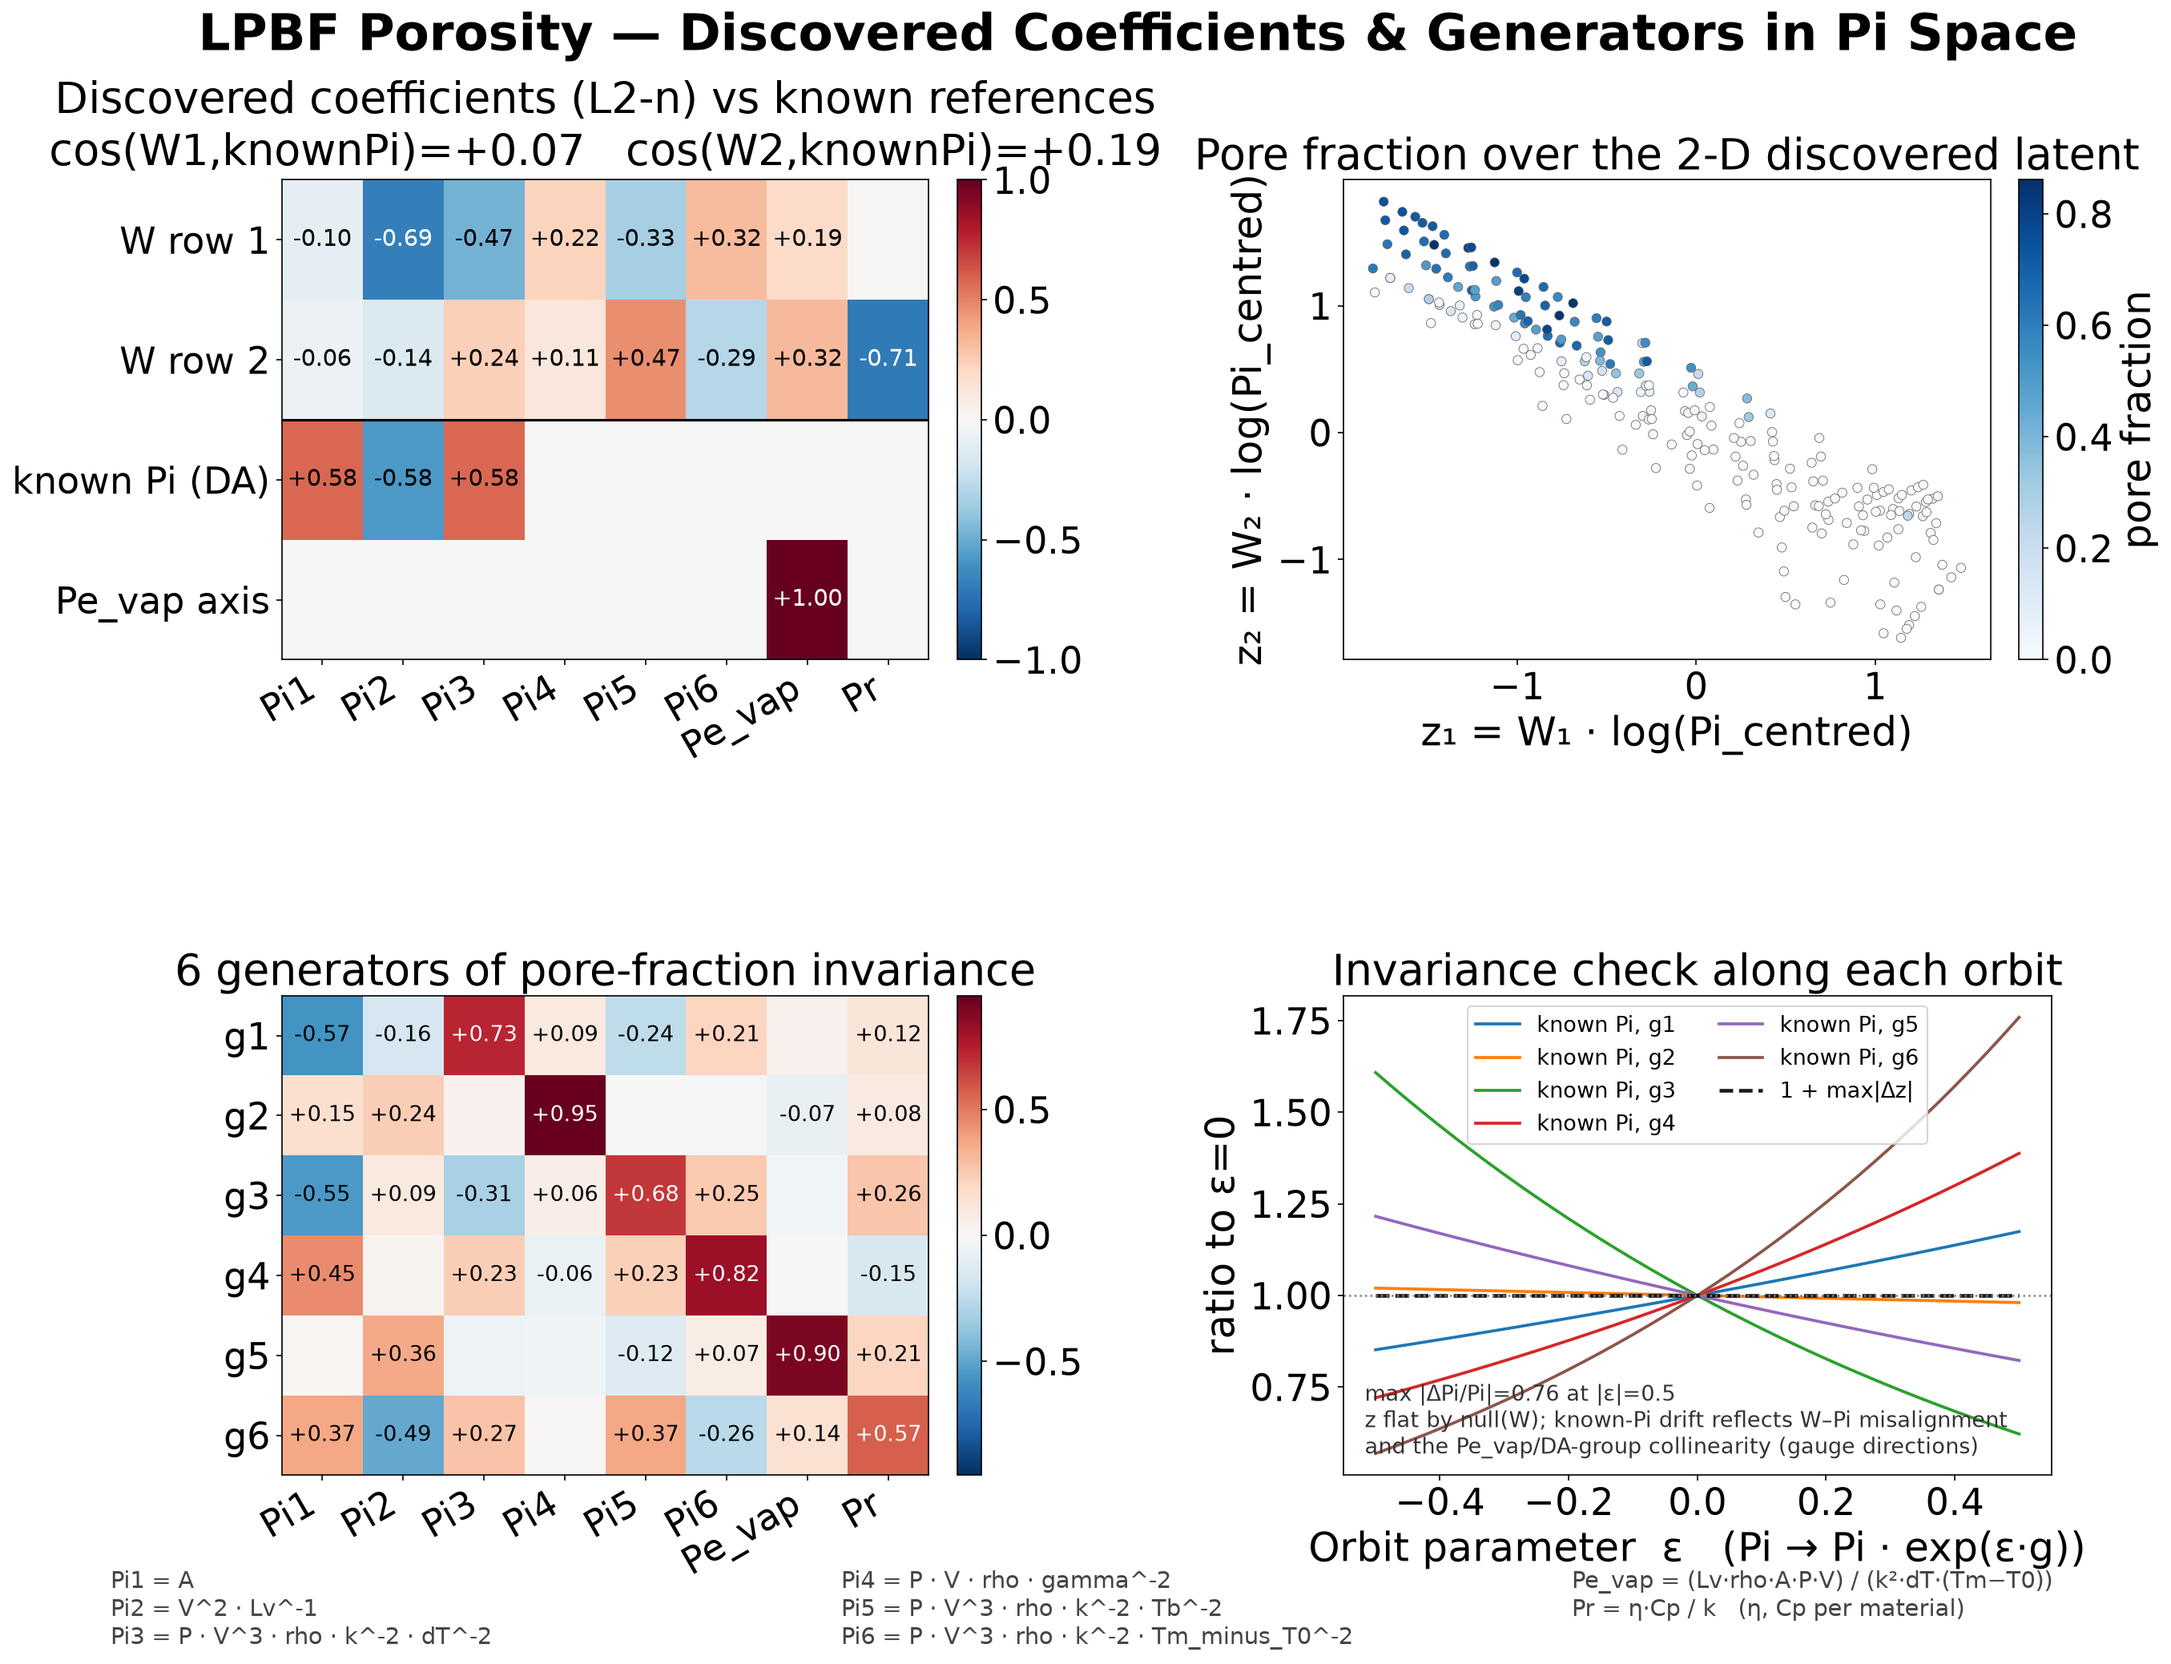
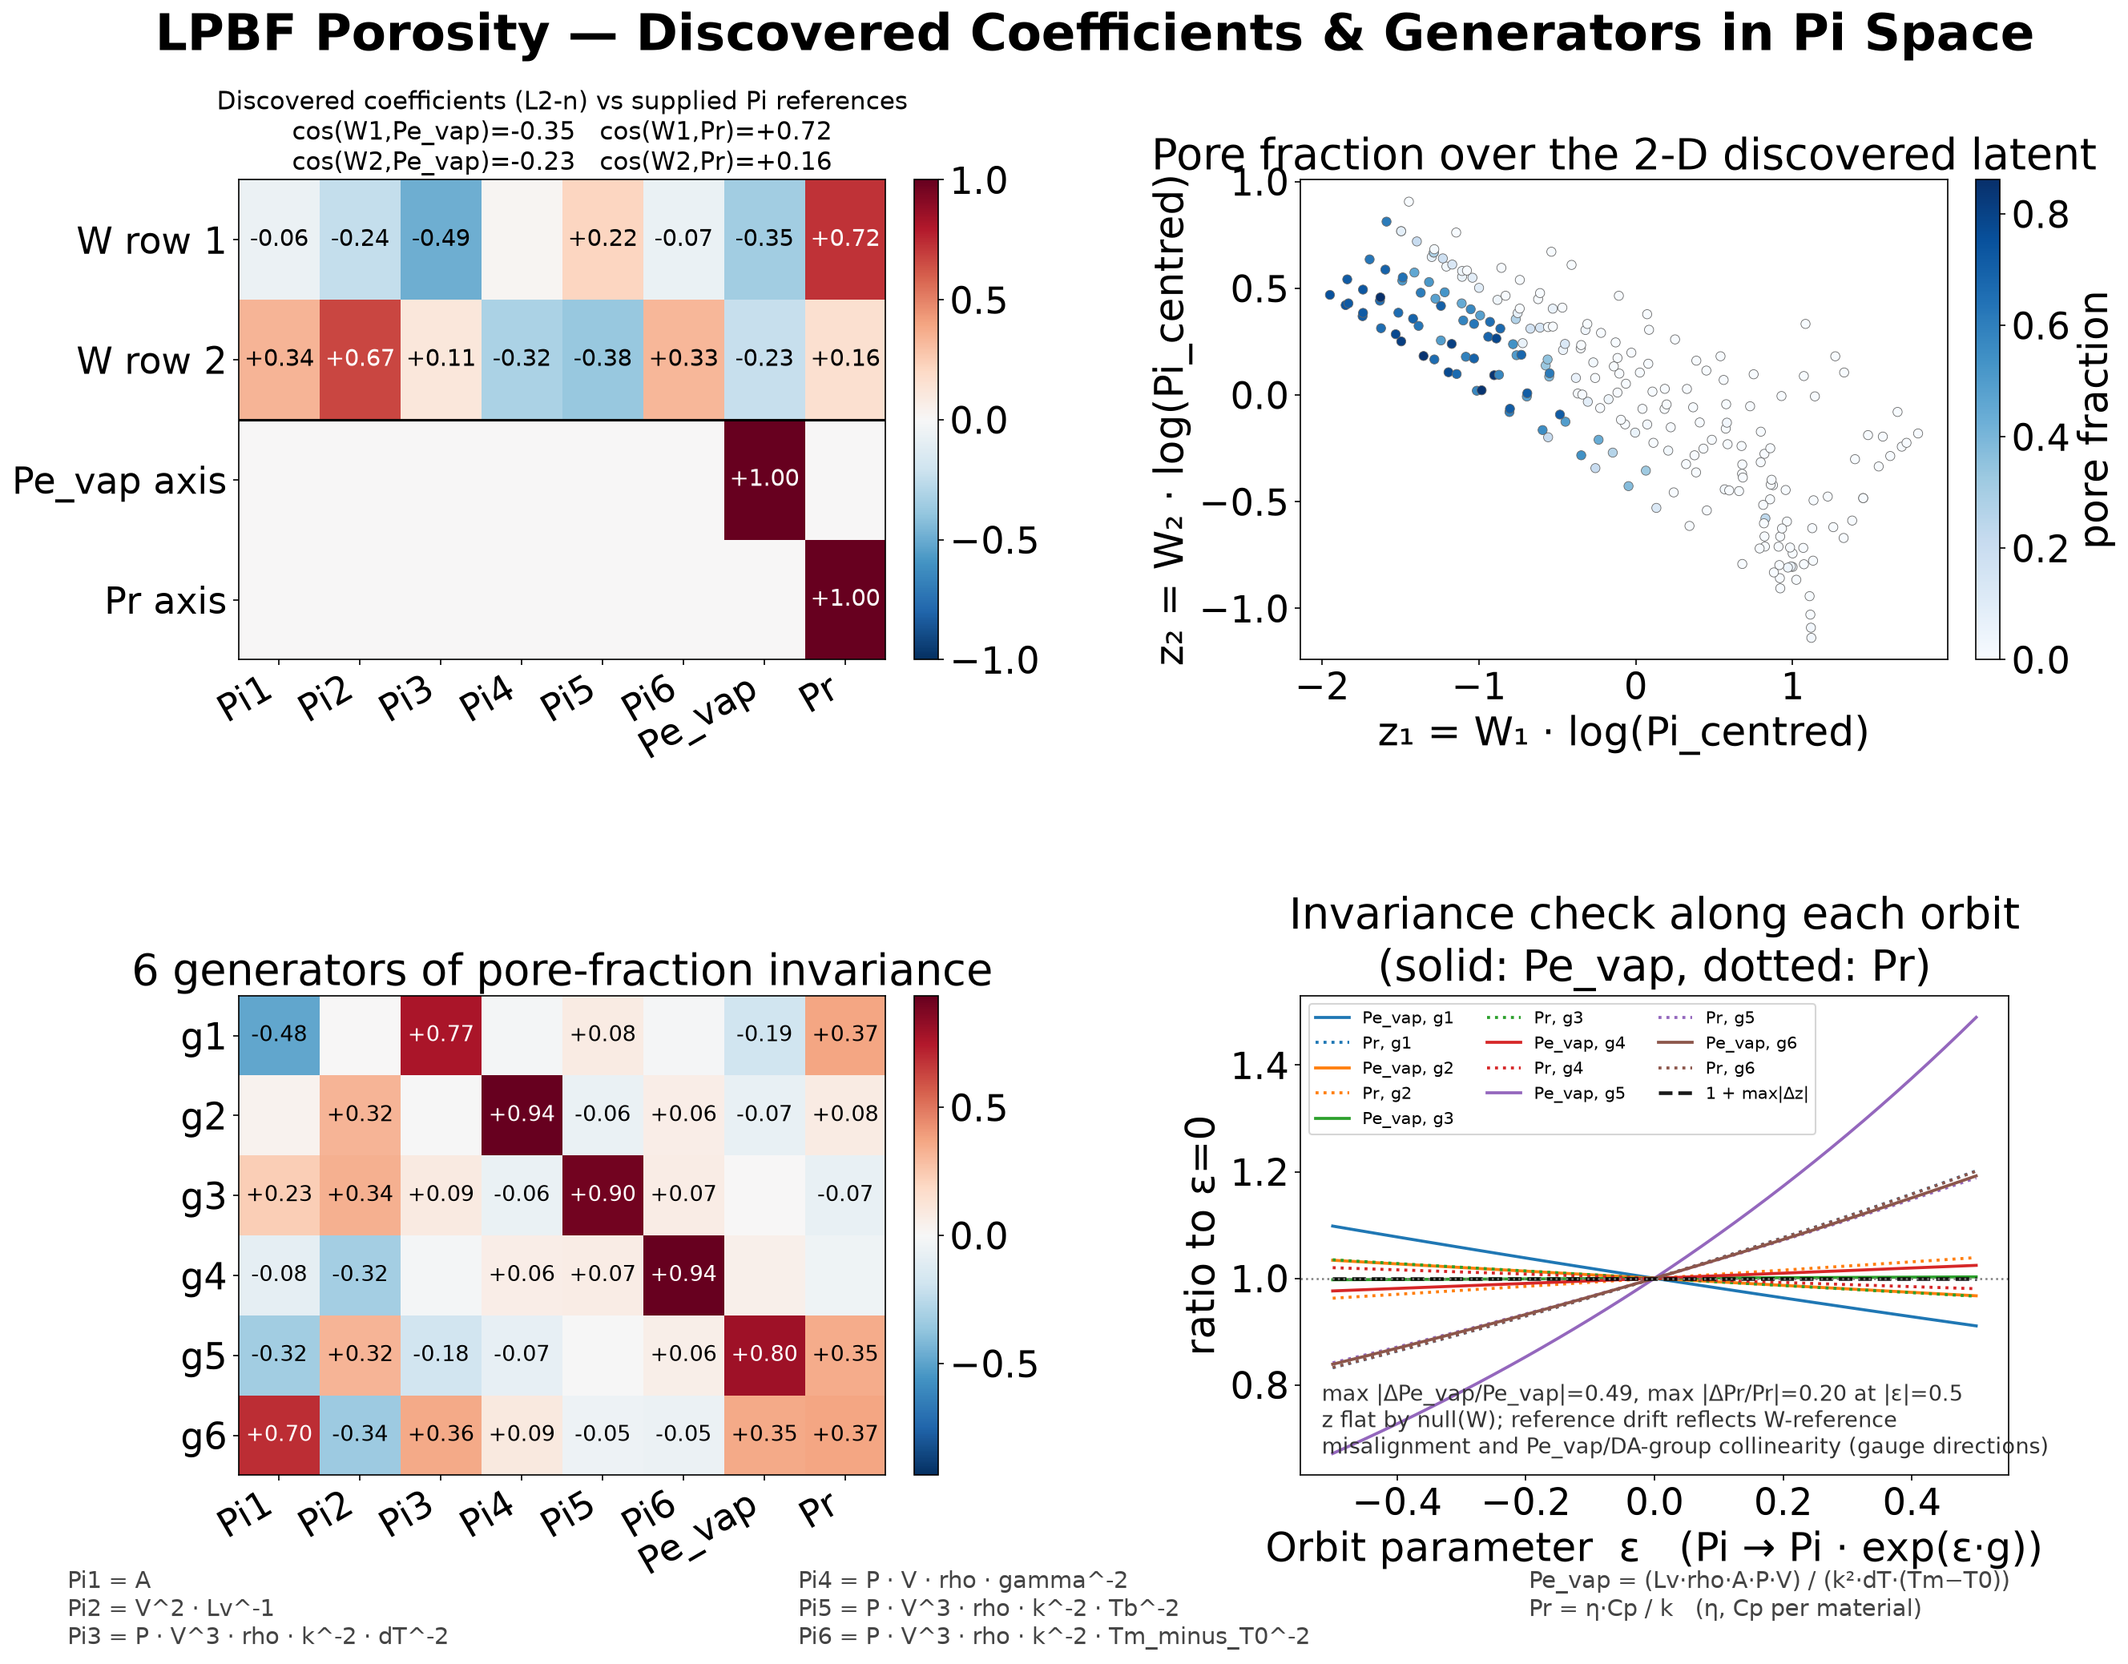
LPBF example: regenerate outputs; un-gate generators figure
Rerun with the supplied Pe_vap/Pr references (scaling winner, gap 1.2x).
The Pi-space coefficients/generators figure is no longer skipped for a
translational winner: in pi-only mode the orbit panel now uses additive
orbits Pi -> Pi + eps*g (and the matching identity latent transform)
when translational wins, since the scaling/translational losses are
near-tied and the winner can flip between environments. Panel A cosine
readout moved to one line per W row to stop title overlap.

Claude-Session: https://claude.ai/code/session_01HHPyXpQKJ8uLrJtZ5BgRFm

diff --git a/projects/20260912_Stage1_Prokash/Examples/lpbf_porosity_symmetry/discover_symmetry.py b/projects/20260912_Stage1_Prokash/Examples/lpbf_porosity_symmetry/discover_symmetry.py
@@ -1026,19 +1026,23 @@ def plot_pi_candidates(X, y, results, output_dir):
 def plot_discovered_law_and_generators(y, results, output_dir):
     """Visualize the discovered coefficients and generators in Pi space.
 
-    Four panels (requires pi-only mode and a scaling winner):
+    Four panels (requires pi-only mode and a scaling or translational
+    winner):
       A. Coefficient heatmap: the k* winning encoder rows (L2-normalised)
          stacked above the two supplied references — the pure Pe_vap axis
          and the pure Pr axis.
       B. Latent collapse: for k* = 2 a scatter of (z1, z2) colored by pore
          fraction; for k* = 1 a scatter of pore fraction vs z1.
       C. Heatmap of the null-space generators (rows) × Pi features (cols).
-      D. Orbit invariance: Pi(ε) = Pi0 · exp(ε·g).  Pe_vap and Pr are
-         literal feature axes, so they move by exp(ε·g[-2]) and
-         exp(ε·g[-1]) exactly; the latent z stays flat by null(W).
+      D. Orbit invariance.  Scaling winner: Pi(ε) = Pi0 · exp(ε·g), so the
+         supplied references move by exp(ε·g[-2]) / exp(ε·g[-1]) exactly.
+         Translational winner: Pi(ε) = Pi0 + ε·g (additive in centred Pi
+         space, Pi0 = 1), so they move by 1 + ε·g[-2] / 1 + ε·g[-1].
+         Either way the latent z stays flat by null(W).
     """
     os.makedirs(output_dir, exist_ok=True)
     winner_encoder = results["winner_encoder"]
+    winner_type    = results["winner_type"]
     generators     = results["generators"]
     W              = winner_encoder.weight_matrix          # (k*, n_pi)
     pi_centred     = results["pi_centred"]
@@ -1055,23 +1059,33 @@ def plot_discovered_law_and_generators(y, results, output_dir):
 
     W_dirs = W / (np.linalg.norm(W, axis=1, keepdims=True) + 1e-12)
 
-    # Latent coordinates (encoder-equivalent, incl. the 0.1 clamp)
-    log_pi = np.log(np.clip(np.abs(pi_centred), 0.1, None))
-    Z = log_pi @ W.T                                       # (n, k*)
+    # Latent coordinates, matching the winning encoder's transform:
+    # scaling sees clamped log(Pi); translational sees Pi directly.
+    if winner_type == "scaling":
+        Z = np.log(np.clip(np.abs(pi_centred), 0.1, None)) @ W.T   # (n, k*)
+    else:
+        Z = pi_centred @ W.T                                       # (n, k*)
 
-    # Orbits from the geometric centre (centred Pi ⇒ start point = 1s)
+    # Orbits from the geometric centre (centred Pi ⇒ start point = 1s).
+    # Pe_vap and Pr are the last two feature axes, so their change along
+    # the orbit is exact for both winner types.
     eps_grid = np.linspace(-0.5, 0.5, 41)
     orbit_pe_vap = np.zeros((n_gen, eps_grid.size))
     orbit_pr     = np.zeros((n_gen, eps_grid.size))
     orbit_dz_max = np.zeros((n_gen, eps_grid.size))
     for k, g in enumerate(generators):
-        # Pe_vap and Pr are the last two feature axes, so their change
-        # along the orbit is exactly exp(ε · g_component).
-        orbit_pe_vap[k] = np.exp(eps_grid * float(g[n_pi - 2]))
-        orbit_pr[k]     = np.exp(eps_grid * float(g[n_pi - 1]))
-        Pi_orbit = np.exp(np.outer(eps_grid, g))
-        Zo = np.log(np.clip(Pi_orbit, 0.1, None)) @ W.T    # (n_eps, k*)
-        orbit_dz_max[k] = np.abs(Zo).max(axis=1)           # z(0) = 0 at centre
+        if winner_type == "scaling":
+            orbit_pe_vap[k] = np.exp(eps_grid * float(g[n_pi - 2]))
+            orbit_pr[k]     = np.exp(eps_grid * float(g[n_pi - 1]))
+            Pi_orbit = np.exp(np.outer(eps_grid, g))
+            Zo = np.log(np.clip(Pi_orbit, 0.1, None)) @ W.T   # (n_eps, k*)
+            orbit_dz_max[k] = np.abs(Zo).max(axis=1)          # z(0) = 0 at centre
+        else:  # translational: Pi → Pi + ε·g, ratio to the centre value 1
+            orbit_pe_vap[k] = 1.0 + eps_grid * float(g[n_pi - 2])
+            orbit_pr[k]     = 1.0 + eps_grid * float(g[n_pi - 1])
+            Pi_orbit = 1.0 + np.outer(eps_grid, g)
+            Zo = (Pi_orbit - 1.0) @ W.T                       # Δz from centre
+            orbit_dz_max[k] = np.abs(Zo).max(axis=1)
 
     fig = plt.figure(figsize=(19, 14))
     gs  = fig.add_gridspec(2, 2, hspace=0.7, wspace=0.5)
@@ -1098,24 +1112,26 @@ def plot_discovered_law_and_generators(y, results, output_dir):
                         color="white" if abs(v) > 0.6 * vmax else "black",
                         fontsize=14)
     fig.colorbar(im, ax=ax, fraction=0.046, pad=0.04)
-    cos_txt = "   ".join(
-        f"cos(W{i+1},Pe)={float(W_dirs[i] @ pe_axis):+.2f} "
+    cos_txt = "\n".join(
+        f"cos(W{i+1},Pe_vap)={float(W_dirs[i] @ pe_axis):+.2f}   "
         f"cos(W{i+1},Pr)={float(W_dirs[i] @ pr_axis):+.2f}"
         for i in range(n_lat))
-    ax.set_title(f"Discovered coefficients (L2-n) vs supplied Pi references\n{cos_txt}")
+    ax.set_title("Discovered coefficients (L2-n) vs supplied Pi references\n"
+                 f"{cos_txt}", fontsize=15)
 
     # ── Panel B: latent collapse ─────────────────────────────────────────────
     ax = fig.add_subplot(gs[0, 1])
+    z_expr = "log(Pi_centred)" if winner_type == "scaling" else "Pi_centred"
     if n_lat >= 2:
         sc = ax.scatter(Z[:, 0], Z[:, 1], c=y, cmap="Blues", s=30,
                         edgecolors="#666666", linewidths=0.4)
         fig.colorbar(sc, ax=ax, fraction=0.046, pad=0.04, label="pore fraction")
-        ax.set_xlabel("z₁ = W₁ · log(Pi_centred)")
-        ax.set_ylabel("z₂ = W₂ · log(Pi_centred)")
+        ax.set_xlabel(f"z₁ = W₁ · {z_expr}")
+        ax.set_ylabel(f"z₂ = W₂ · {z_expr}")
         ax.set_title("Pore fraction over the 2-D discovered latent")
     else:
         ax.scatter(Z[:, 0], y, c="#4C72B0", s=25, alpha=0.75, edgecolors="none")
-        ax.set_xlabel("z = W · log(Pi_centred)")
+        ax.set_xlabel(f"z = W · {z_expr}")
         ax.set_ylabel("pore fraction")
         ax.set_title("Pore fraction vs the discovered latent")
 
@@ -1154,7 +1170,9 @@ def plot_discovered_law_and_generators(y, results, output_dir):
         ax.plot(eps_grid, 1.0 + orbit_dz_max.max(axis=0), "k--", lw=2.2,
                 alpha=0.9, label="1 + max|Δz|")
     ax.axhline(1.0, color="grey", ls=":", lw=1.2)
-    ax.set_xlabel("Orbit parameter  ε   (Pi → Pi · exp(ε·g))")
+    orbit_expr = ("Pi → Pi · exp(ε·g)" if winner_type == "scaling"
+                  else "Pi → Pi + ε·g")
+    ax.set_xlabel(f"Orbit parameter  ε   ({orbit_expr})")
     ax.set_ylabel("ratio to ε=0")
     ax.set_title("Invariance check along each orbit\n(solid: Pe_vap, dotted: Pr)")
     ax.legend(loc="best", ncol=3, fontsize=10)
@@ -1274,11 +1292,11 @@ def main():
     print("=" * 60)
     plot_pi_candidates(X, y, results, args.output_dir)
     plot_results(X, y, results, args.output_dir)
-    if args.pi_only and results["winner_type"] == "scaling":
+    if args.pi_only and results["winner_type"] in ("scaling", "translational"):
         plot_discovered_law_and_generators(y, results, args.output_dir)
     else:
         print("Skipping Pi-space coefficients/generator figure "
-              "(requires pi-only mode and a scaling winner).")
+              "(requires pi-only mode and a scaling or translational winner).")
 
     print()
     print("=" * 60)
